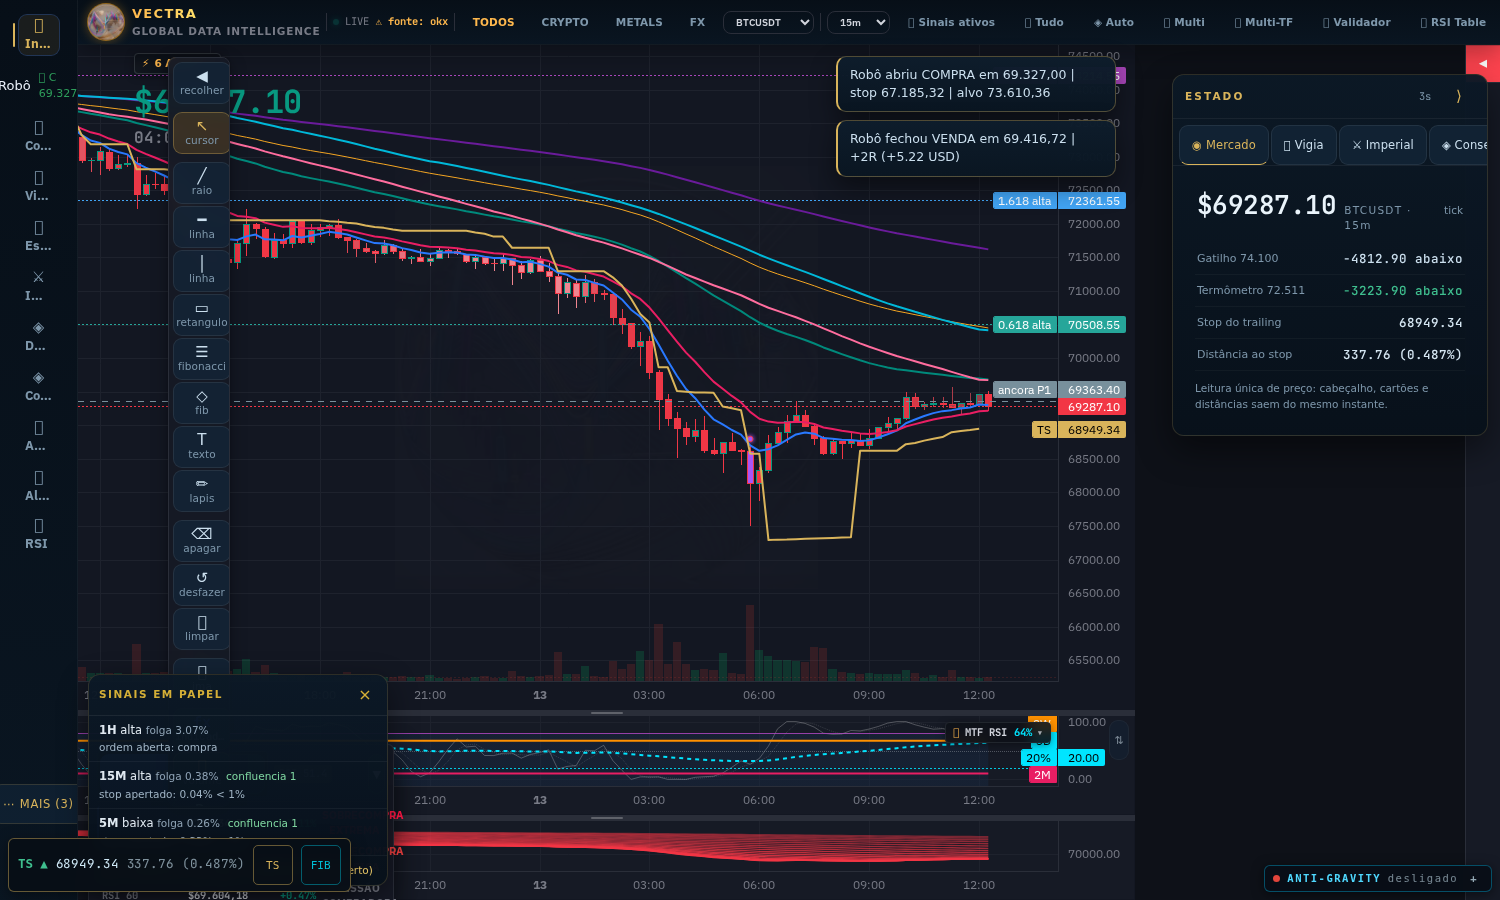
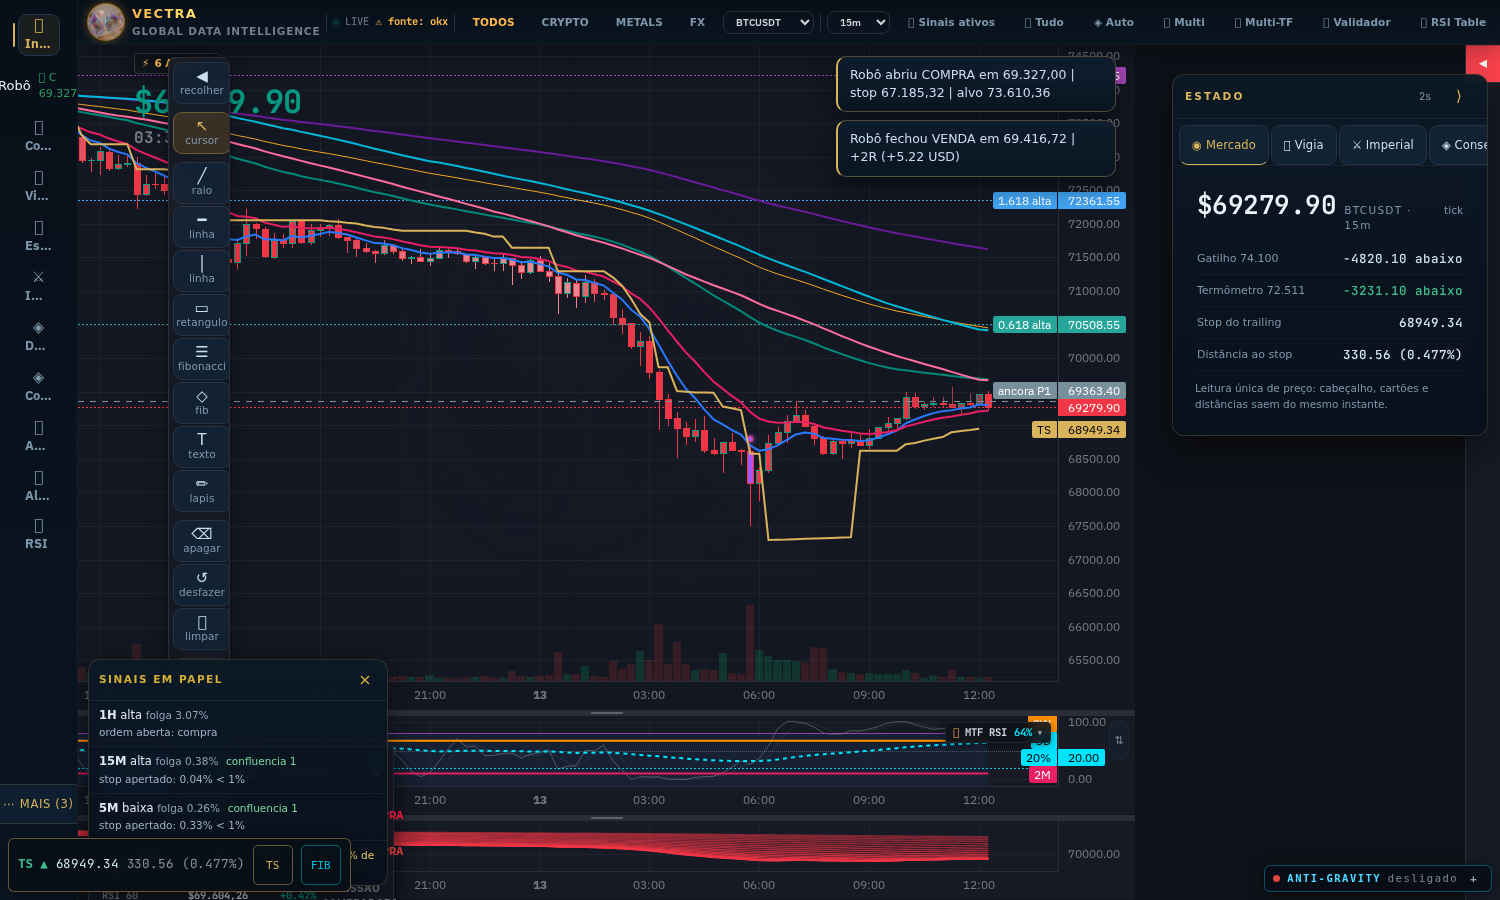
Card dos sinais: percentual de acerto correto

diff --git a/atlas-ui/vectra-sinais.js b/atlas-ui/vectra-sinais.js
@@ -17,7 +17,7 @@
       var h = "<div class=vx-sinais-topo><span>SINAIS EM PAPEL</span><button id=vx-sinais-fecha aria-label=\"recolher\">×</button></div>";
       h += linha("1H", r[0]) + linha("15M", r[1]) + linha("5M", r[2]);
       var c = r[3]||{}, res = c.resumo||{};
-      if(res["0"]){var g=res["0"], m=(g.soma/g.n), ac=Math.round(g.acertos/g.n*100); h += "<div class=vx-sinal-resumo>sem confluencia: "+g.n+" sinais, "+m.toFixed(2)+"% medio ("+ac+"% de acerto)</div>";}
+      if(res["0"]){var g=res["0"], m=(g.soma/g.n), ac=Math.round((g.acerto||0)/g.n*100); h += "<div class=vx-sinal-resumo>sem confluencia: "+g.n+" sinais, "+m.toFixed(2)+"% medio ("+ac+"% de acerto)</div>";}
       caixa.innerHTML = h;
       var b = document.getElementById("vx-sinais-fecha");
       if(b) b.onclick = function(){ caixa.classList.toggle("recolhido"); };

diff --git a/atlas-ui/index.html b/atlas-ui/index.html
@@ -1877,7 +1877,7 @@
 <script defer src="./robo-ui.js?v=3"></script>
 <script type="module" src="./core/rsi-matrix.js?v=1"></script>
 <script src="vectra-tipografia.js?v=4" defer></script>
-<script src="vectra-sinais.js?v=2" defer></script>
+<script src="vectra-sinais.js?v=3" defer></script>
 <script src="rsi-matrix-ui.js?v=1" defer></script>
 <script src="ui-extras.js?v=9" defer></script>
 <script src="alerta-central.js?v=1" defer></script>
